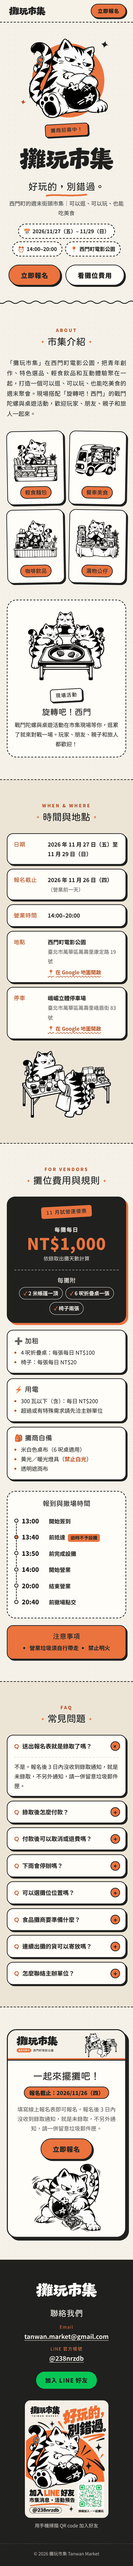
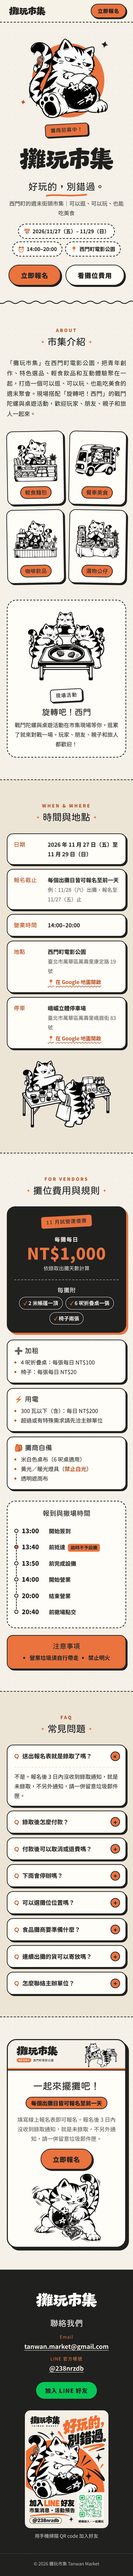
Signup deadline: each market day closes the day before
Claude-Session: https://claude.ai/code/session_01XVwieRL5ZGmShYCTr5c7x7

Changed region(s): [[0.0308, 0.0, 0.9538, 0.9965], [0.9231, 0.218, 0.9538, 0.2803], [0.0308, 0.2491, 0.0615, 0.2803]]

diff --git a/index.html b/index.html
@@ -148,7 +148,7 @@
             </div>
             <div class="info-item">
               <dt>報名截止</dt>
-              <dd>2026 年 11 月 26 日（四）<span class="muted">（營業前一天）</span></dd>
+              <dd>每個出攤日皆可報名至前一天<br><span class="muted">例：11/28（六）出攤，報名至 11/27（五）止</span></dd>
             </div>
             <div class="info-item">
               <dt>營業時間</dt>
@@ -307,7 +307,7 @@
             <div class="signup-text">
               <h2 id="signup-title">一起來擺攤吧！</h2>
               <!-- ✏ 報名截止日 -->
-              <p class="signup-deadline">報名截止：2026/11/26（四）</p>
+              <p class="signup-deadline">每個出攤日皆可報名至前一天</p>
               <p>填寫線上報名表即可報名。報名後 3 日內沒收到錄取通知，就是未錄取，不另外通知，請一併留意垃圾郵件匣。</p>
               <a class="btn btn-lg" href="https://forms.gle/8Fhi1L7nHp1qh5zT6" target="_blank" rel="noopener">立即報名<span class="sr-only">（另開新分頁）</span></a>
             </div>
